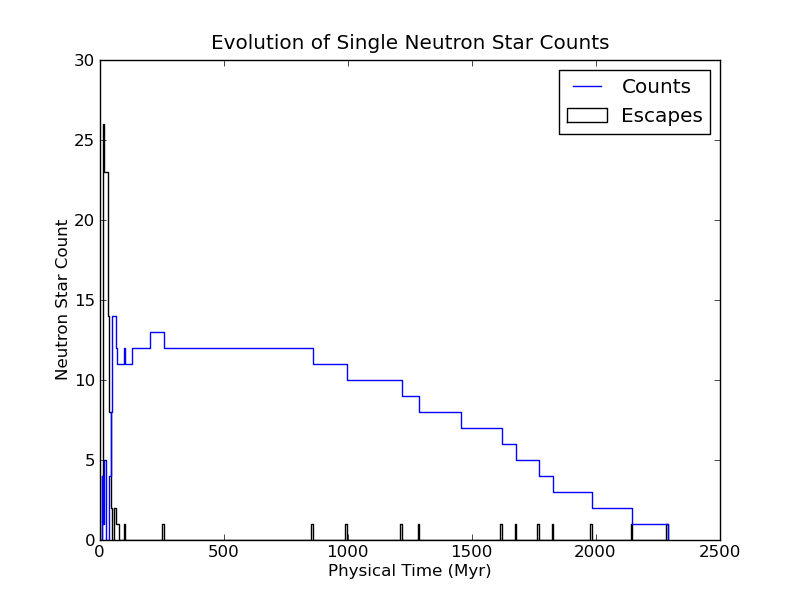
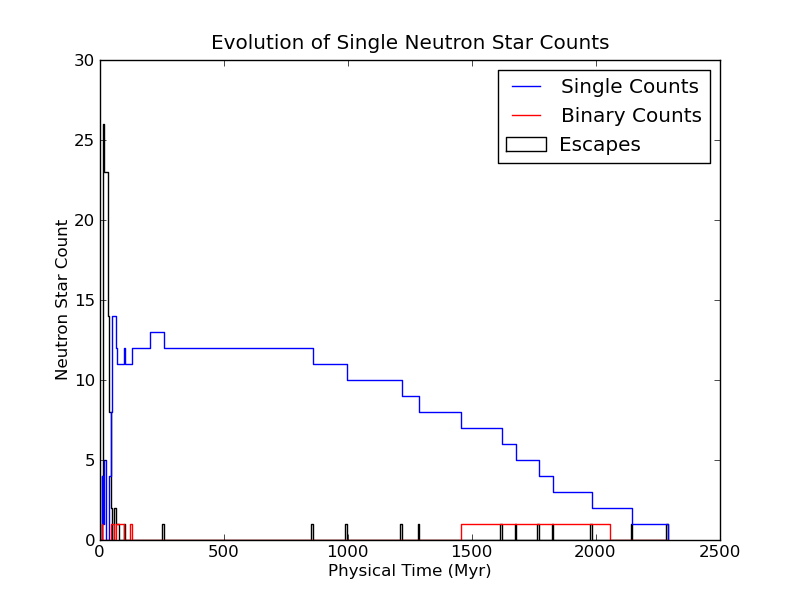
Implement binary counts

Changed region(s): [[0.5938, 0.09, 0.9062, 0.3], [0.5625, 0.87, 0.7812, 0.9], [0.125, 0.87, 0.1875, 0.9]]

diff --git a/scripts/parse.py b/scripts/parse.py
@@ -66,6 +66,8 @@ def parse_bev(bev_name):
 
         for line in f:
             data_line = line.split()
+            if int(data_line[0]) == -1000: # -1000 is the sentinel value indicating EOF
+                return { "time": physical_time, "stars": count }
             # third item in row is first star type
             if int(data_line[2]) == NEUTRON_STAR:
                 count += 1
@@ -73,25 +75,33 @@ def parse_bev(bev_name):
             if int(data_line[3]) == NEUTRON_STAR:
                 count += 1
 
+    # This should only be required in case there is no -1000 EOF value
     return { "time": physical_time, "stars": count }
 
-def parse_save(save_dir):
-    sev_files = os.path.join(save_dir, "sev.83_*")
+def parse_save(save_dir, option="single"):
+    # option specifies whether to parse single or binary data
 
     data = []
-    for filename in glob.glob(sev_files):
-        data.append(parse_sev(filename))
+    if option == "single":
+        files = os.path.join(save_dir, "sev.83_*")
+        for filename in glob.glob(files):
+            data.append(parse_sev(filename))
+    elif option == "binary":
+        files = os.path.join(save_dir, "bev.82_*")
+        for filename in glob.glob(files):
+            data.append(parse_bev(filename))
 
     # Sort by physical time
     # http://stackoverflow.com/questions/72899/how-do-i-sort-a-list-of-dictionaries-by-values-of-the-dictionary-in-python
     return sorted(data, key=lambda k: k['time'])
 
-def parse_run(run_dir):
+def parse_run(run_dir, option="single"):
+    # option specifies whether to parse single or binary data
     save_dirs = os.path.join(run_dir, "save*")
 
     data = []
     for dirname in glob.glob(save_dirs):
-        save_data = parse_save(dirname)
+        save_data = parse_save(dirname, option)
         if len(save_data) is 0:
             continue
 
@@ -171,7 +181,7 @@ def test_parse_save():
         "N10K_r26_Z02_11",
         "save02"
     )
-    print parse_save(data_dir)
+    print parse_save(data_dir, "single")
 
 def test_parse_run():
     data_dir = os.path.join(
@@ -179,7 +189,7 @@ def test_parse_run():
         "RgSun_NZgrid_BHFLAG2",
         "N10K_r26_Z02_11"
     )
-    print parse_run(data_dir)
+    print parse_run(data_dir, "single")
 
 def test_parse_single_esc():
     data_dir = os.path.join(
@@ -202,16 +212,14 @@ def test_parse_bev():
     data_dir = os.path.join(
         "/projects/b1011/ageller/NBODY6ppGPU/Nbody6ppGPU-newSE/run",
         "RgSun_NZgrid_BHFLAG2",
-        "N10K_r26_Z02_11",
+        "N10K_r26_Z02_15",
         "save02",
-        "bev.82_805"
+        "bev.82_4375"
     )
     print parse_bev(data_dir)
 
 def main():
     # test_parse_sev()
-    # test_parse_save()
-    # test_parse_run()
     # test_parse_single_esc()
     # test_parse_single_run_esc()
     test_parse_bev()

diff --git a/scripts/script.py b/scripts/script.py
@@ -26,16 +26,24 @@ data_dir = os.path.join(
 
 for dir in glob.glob(data_dir):
     # Neutron star counts
-    data = parse.parse_run(dir)
-    timesteps = [x['time'] for x in data]
-    counts = [x['stars'] for x in data]
+    single_data = parse.parse_run(dir, "single")
+    single_timesteps = [x['time'] for x in single_data]
+    single_counts = [x['stars'] for x in single_data]
 
-    single_hist = parse.hist_data(timesteps, counts)
-    plt.plot(single_hist[0], single_hist[1], label="Counts")
+    single_hist = parse.hist_data(single_timesteps, single_counts)
+    plt.plot(single_hist[0], single_hist[1], label="Single Counts")
 
-    # Neutron star escape counts
+    # Single neutron star escape counts
     single_escapes = parse.parse_single_run_esc(dir)
-    plt.hist(single_escapes, bins=timesteps, histtype="stepfilled", label="Escapes", fill=False)
+    plt.hist(single_escapes, bins=single_timesteps, histtype="stepfilled", label="Escapes", fill=False)
+
+    # Binary neutron star counts
+    binary_data = parse.parse_run(dir, "binary")
+    binary_timesteps = [x['time'] for x in binary_data]
+    binary_counts = [x['stars'] for x in binary_data]
+
+    binary_hist = parse.hist_data(binary_timesteps, binary_counts)
+    plt.plot(binary_hist[0], binary_hist[1], label="Binary Counts")
 
     plt.title("Evolution of Single Neutron Star Counts")
     plt.xlabel("Physical Time (Myr)")
